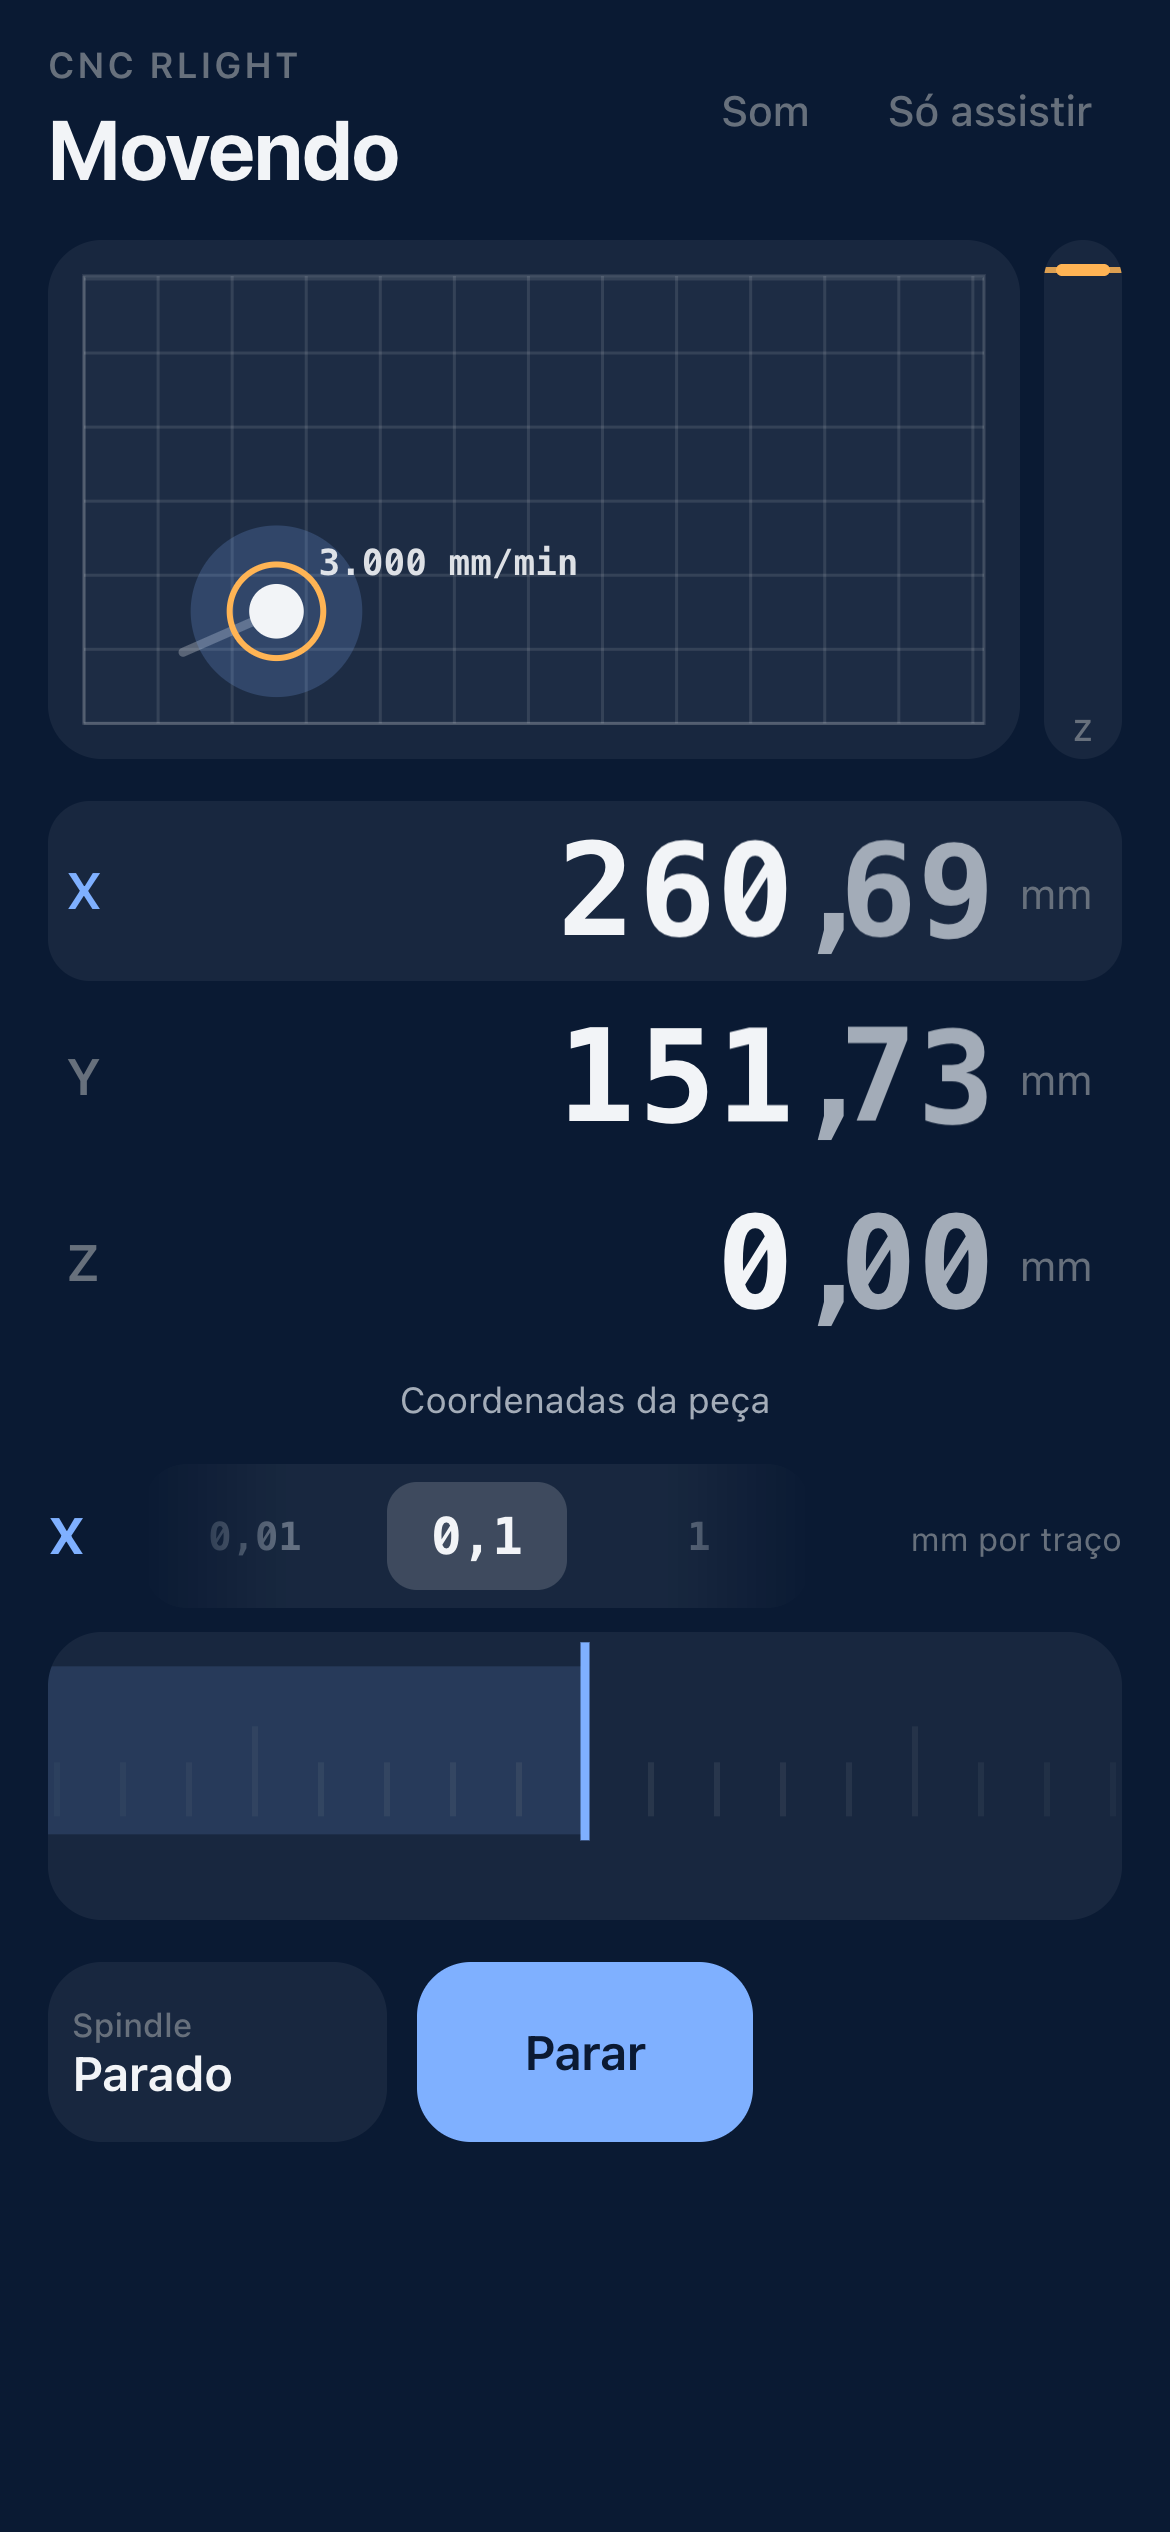
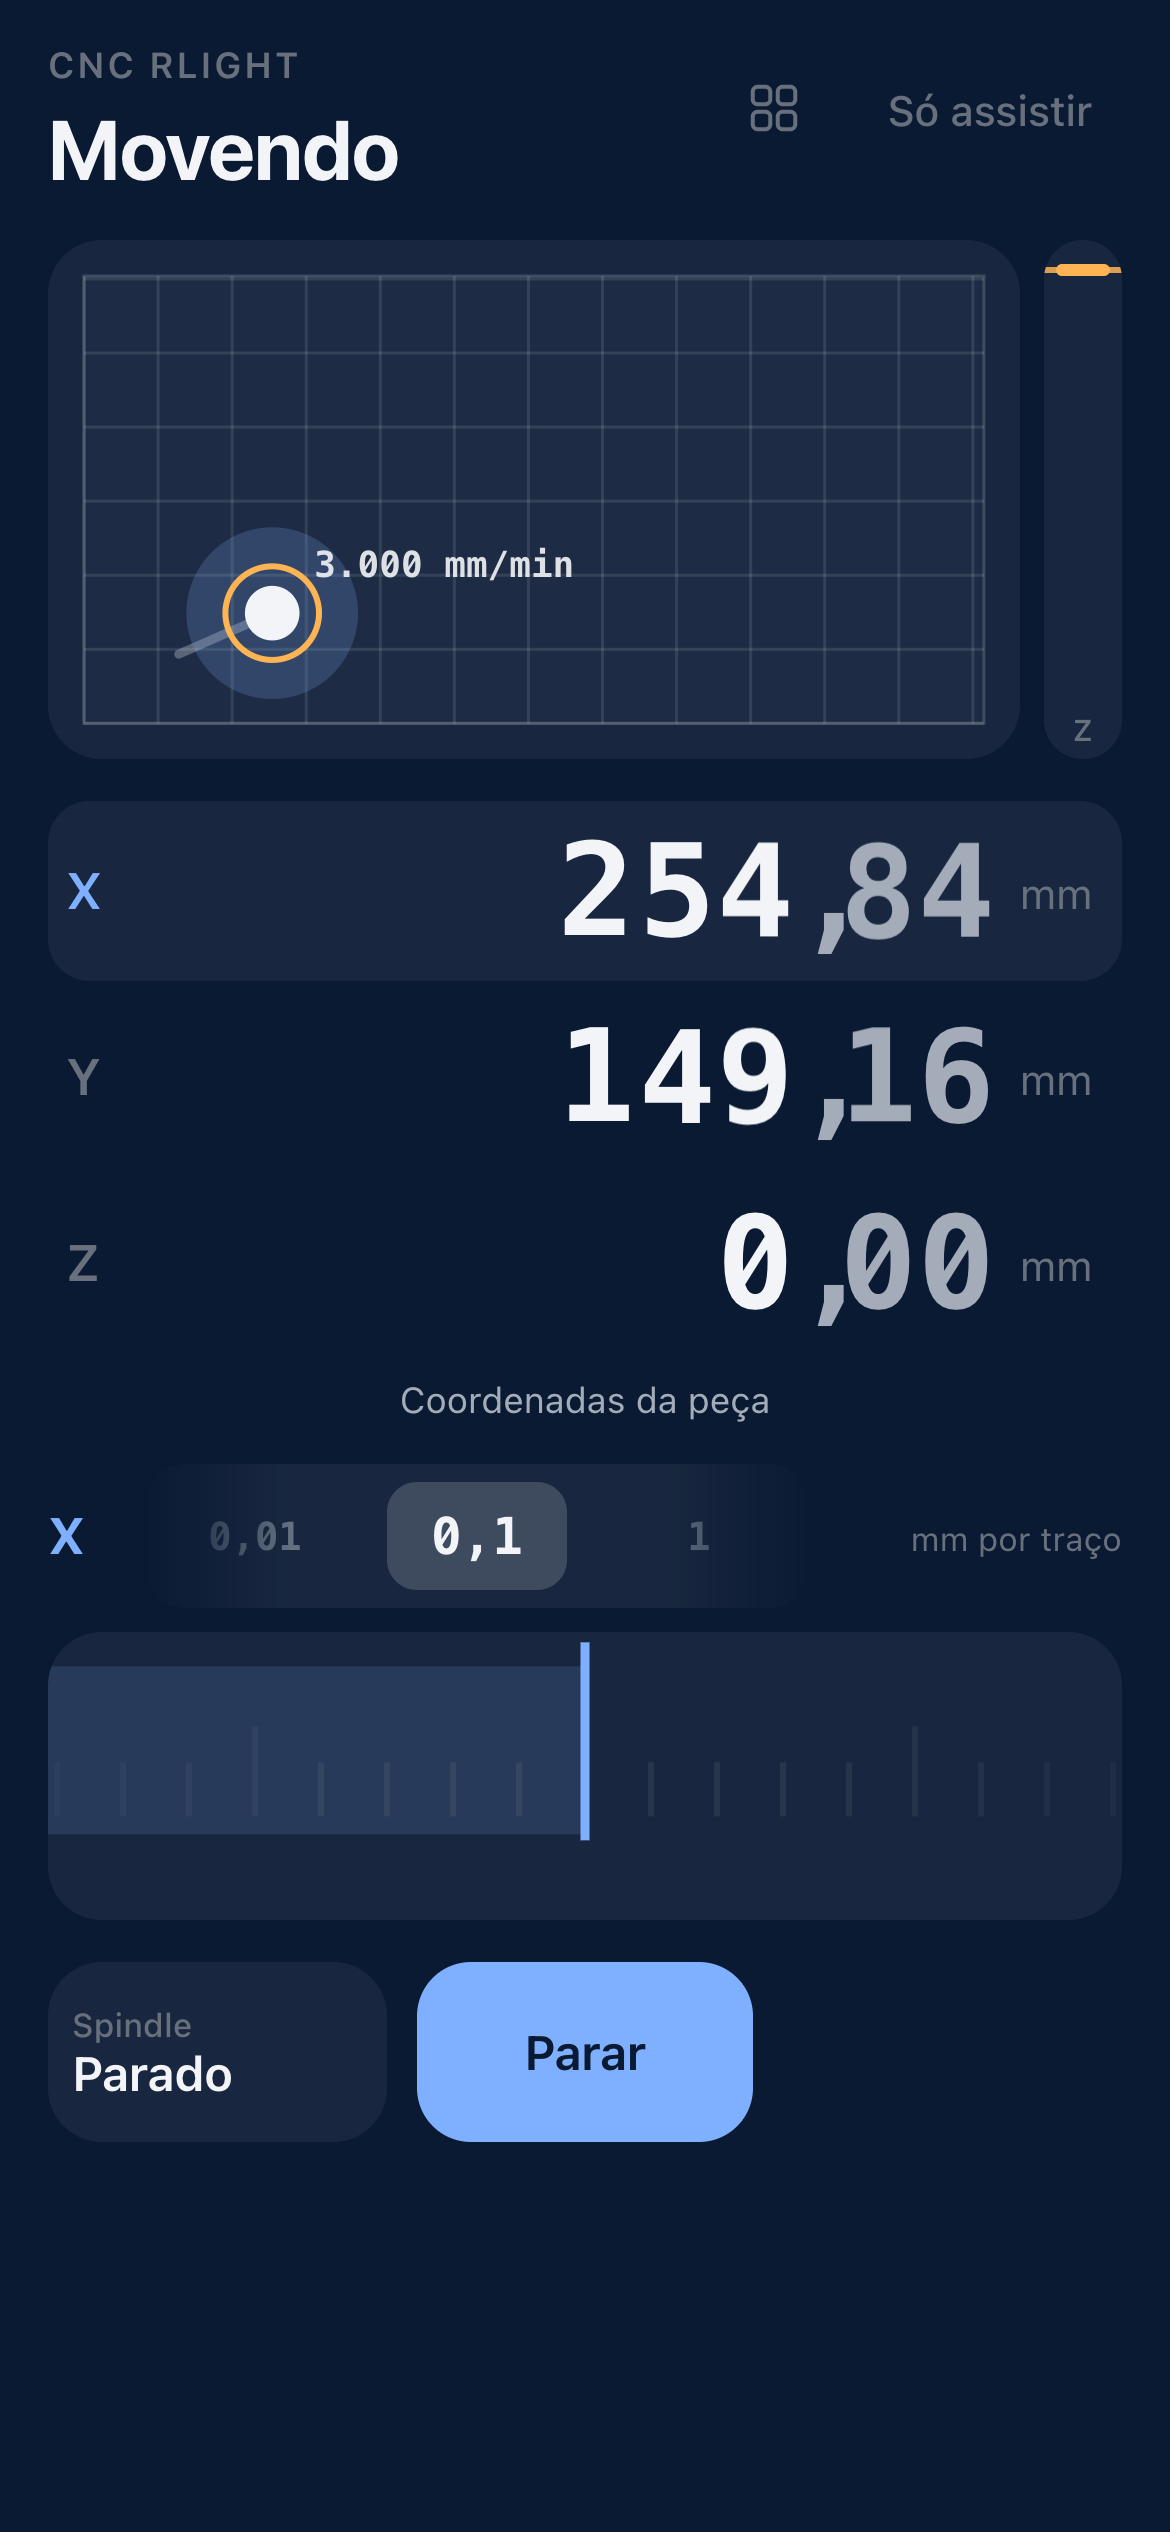
README: telas atualizadas (Automações no cabeçalho, quanto falta no Ir) e as novidades

diff --git a/README.md b/README.md
@@ -52,7 +52,9 @@ régua só mostra os traços que a máquina alcança.
 
 **Toque na mesa e "Ir".** O mapa é a mesa em escala. Um toque põe um fantasma no
 destino, com a linha do caminho. "Ir" manda um único movimento absoluto, na
-velocidade máxima que a placa informa para os eixos.
+velocidade máxima que a placa informa para os eixos. O alvo fica na mesa até a
+máquina chegar, com **quanto falta, em segundos, diminuindo ao vivo**, calculado
+com as rampas de aceleração da própria máquina.
 
 </td>
 </tr>
@@ -86,7 +88,25 @@ por 30 s.
 
 **O spindle pelo que a placa diz.** "Ligado" vem do campo `A:` do relatório, nunca
 de rotação > 0. O anel sobe pela rampa real do inversor até a rotação escolhida, e
-o app diz que isso é uma estimativa.
+o app diz que isso é uma estimativa. Desligar funciona até no meio da espera do
+spin-up do FluidNC.
+
+</td>
+</tr>
+<tr>
+<td valign="top">
+
+**Automações, fora da tela de controle.** A placa de toque zera o Z sozinha: desce
+rápido até encostar, recua, mede de novo devagar e zera pela espessura da placa.
+É ali que vão morar as [receitas](docs/RECEITAS.md) do Romney Rupert, o CAM
+conversacional que ele escreveu no Mach3.
+
+</td>
+<td valign="top">
+
+**Feito para a oficina.** A tela não apaga com o controle nas mãos. Uma recusa
+da placa vira uma frase, nunca um silêncio. O hodômetro conta quanto cada eixo
+andou e quanto o spindle girou, hoje e desde sempre.
 
 </td>
 </tr>
